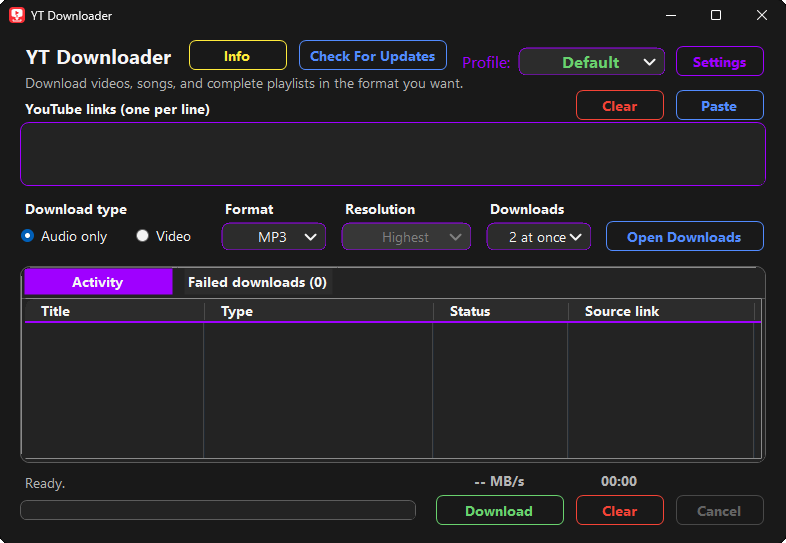
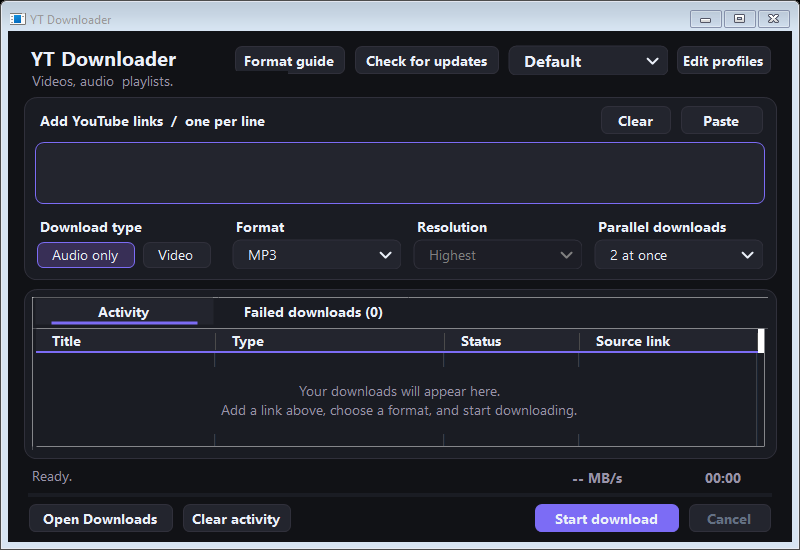
Prepare v1.2.0 release metadata and updated interface screenshots

Changed region(s): [[0.0, 0.0, 1.0, 1.0], [0.2748, 0.7072, 0.7328, 0.7661]]

diff --git a/README.md b/README.md
@@ -17,6 +17,18 @@ If you don't like vibe coded programs, don't use it. Please report any bugs you 
 <br/>
 A completely portable Windows application for downloading YouTube videos, audio, and playlists with control over quality, metadata, title cleanup, and parallel downloads.
 
+## Refreshed desktop interface
+
+The main window defaults to 800 × 550, matching the original footprint, and remembers its resized dimensions for the next launch. It can still be enlarged for more activity space.
+
+The interface now uses the deej dark palette (`#111216` background, `#1A1C23` panels) with violet accents, pill switches, custom rounded scrollbars, segmented Audio/Video selectors, a dedicated link-entry card, clearer download controls, and helpful empty activity states. **Edit profiles** opens three sections: Download options, Metadata, and Title cleanup. All existing formats, playlist options, profiles, cookie choices, updates, failure reports, and parallel downloads remain available.
+
+After building, run `build\YTDownloader.exe`. Preferences retain their existing format; to reuse settings from a previous portable copy, copy its `Dependencies\settings.ini` into the new build's `Dependencies` folder while the app is closed.
+
+UI optimizations remove repeated rounded-region allocations on main-window resizing, avoid progress repaints when the value is unchanged, and dispose closed dropdown menus. These changes target interface overhead, not network download speed.
+
+Run `tests\run-ui-tests.bat` for local UI smoke checks and rendered previews. These cover mode switching, busy-state controls, settings persistence, metadata/title-cleanup enablement, empty states, duplicate links, and layout bounds. They do not perform live downloads or component updates. Mixed-DPI monitor behavior still needs manual testing.
+
 ## Features
 
 - **Completely portable:** the executable, dependencies, settings, logs, cache, and downloads stay inside the YT Downloader folder. No installer is required.
@@ -113,7 +125,7 @@ YT Downloader/
 └── Downloads/
 ```
 
-`settings.ini` stores preferences, profiles, toggles, selected formats, concurrency, and activity-column layout. Failed downloads are written to timestamped `FailedDL_*.txt` files and detailed diagnostics go to `YTD.log`.
+`settings.ini` stores preferences, profiles, toggles, selected formats, concurrency, window size, and activity-column layout. Failed downloads are written to timestamped `FailedDL_*.txt` files and detailed diagnostics go to `YTD.log`.
 
 Deno may create `Dependencies\DenoCache` while solving YouTube JavaScript challenges. All of these files remain inside the portable application directory.
 
@@ -153,3 +165,4 @@ YT Downloader is not affiliated with YouTube, Google, yt-dlp, FFmpeg, Deno, or G
 
 Image Converter is available under the [PolyForm Noncommercial License 1.0.0](LICENSE) You may use, modify, and distribute it for permitted noncommercial purposes. Commercial use is not granted by this license.
 The bundled third-party programs retain their own licenses; see [THIRD_PARTY_NOTICES.md](THIRD_PARTY_NOTICES.md).
+
